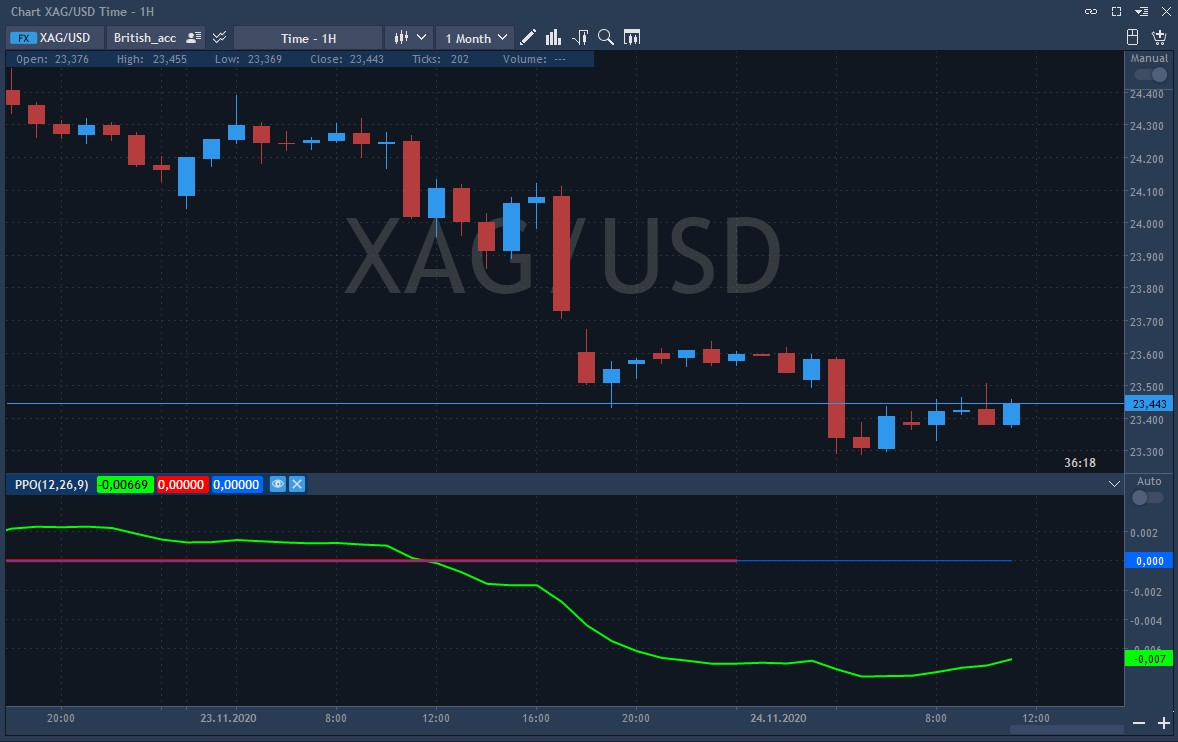
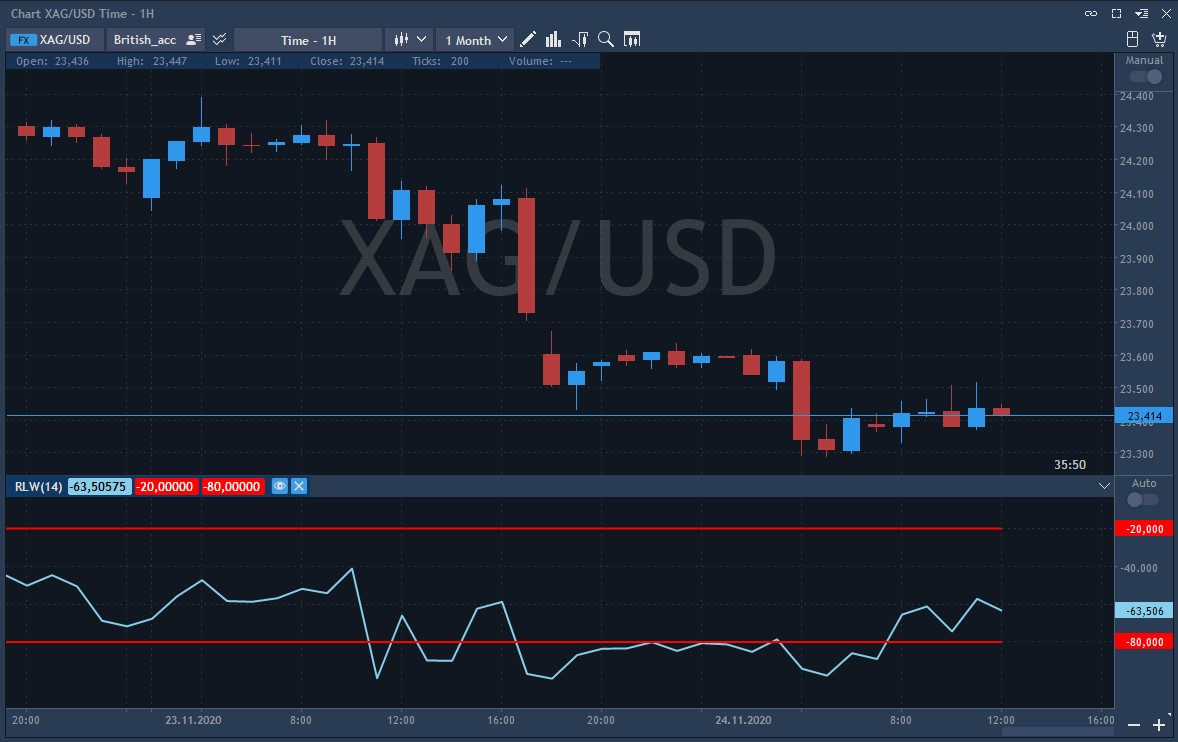
GitBook: [master] 5 pages and 4 assets modified

diff --git a/desktop-application-for-windows/windows/technical-indicators/oscillators/rlw-r-larry-williams.md b/desktop-application-for-windows/windows/technical-indicators/oscillators/rlw-r-larry-williams.md
@@ -1,0 +1,34 @@
+# RLW \(%R Larry Williams\)
+
+Renowned author and commodity trader Larry Williams developed a trading formula called the %R to indicate overbought and oversold levels. In his original work, the method examined ten trading days to determine the trading range. After identifying a ten-day trading range, he figured out where today's close price falls within that range.
+
+The system attempts to measure overbought and oversold market conditions. %R is always in the range of 100 and 0. Trading rules are simple. You sell when %R reaches 10% or lower and buy when it reaches 90% or higher.
+
+These values are reversed from normal thinking, especially if you are using RSI as a trading tool. %R works best in trending markets, either bullish or bearish. Likewise, there is often a discrepancy between %R and the market. It is just another hint of the market's condition.
+
+The number of periods used to calculate %R according to Williams may vary depending on the timeframe you are trading. A rule of thumb is that the indicator window should be half the cycle length \(14 days are often used for the intermediate cycle\).
+
+Overbought and Oversold levels are normally set at -20 and -80.
+
+### Calculation
+
+The indicator is very similar to Stochastic %K, except that Williams %R is plotted using negative values ranging from -20 to -80.
+
+Below is the formula for calculating the %R indicator, which is very similar to the Stochastic oscillator:
+
+%R = \(High\(i-n\) – Close\)/\(High\(i-n\) – Low\(i-n\)\) \* 100,
+
+where:
+
+* Close — today’s closing price;
+* High\(i-n\) — highest high over a number \(n\) of previous periods;
+* Low\(i-n\) — lowest low over a number \(n\) of previous periods.
+
+### Main parameters
+
+WPR period – for selecting the period of Williams Percent Range that compares each closing price with the last trading range, 14 by default.
+
+The indicator itself looks as follows on the chart:
+
+![](../../../../.gitbook/assets/screenshot_1%20%2822%29.jpg)
+

diff --git a/SUMMARY.md b/SUMMARY.md
@@ -70,6 +70,7 @@
         * [PO \(Price oscillator\)](desktop-application-for-windows/windows/technical-indicators/oscillators/po-price-oscillator.md)
         * [PPO \(Percentage price oscillator\)](desktop-application-for-windows/windows/technical-indicators/oscillators/ppo-percentage-price-oscillator.md)
         * [QStick](desktop-application-for-windows/windows/technical-indicators/oscillators/qstick.md)
+        * [RLW \(%R Larry Williams\)](desktop-application-for-windows/windows/technical-indicators/oscillators/rlw-r-larry-williams.md)
     * [Trading panels](desktop-application-for-windows/windows/trading-panels/README.md)
       * [Order entry](desktop-application-for-windows/windows/trading-panels/order-entry.md)
       * [Super DOM](desktop-application-for-windows/windows/trading-panels/super-dom.md)

diff --git a/desktop-application-for-windows/windows/technical-indicators/moving-averages/regression-line.md b/desktop-application-for-windows/windows/technical-indicators/moving-averages/regression-line.md
@@ -35,5 +35,5 @@ sum XX – sum of squared price.
 
 The Regression line indicator is actually tomorrow's price prediction plotted today. If prices are consistently above or below the forecast price, expect them to quickly return to more realistic levels. In other words, the Regression line indicator shows where prices "should" trade on a statistical basis, and any excessive deviation from the Regression line is likely to be short-lived. The indicator itself looks as follows on the chart:
 
-![](../../../../.gitbook/assets/screenshot_1%20%2823%29.jpg)
+![](../../../../.gitbook/assets/screenshot_1%20%2824%29.jpg)
 

diff --git a/desktop-application-for-windows/windows/technical-indicators/oscillators/ppo-percentage-price-oscillator.md b/desktop-application-for-windows/windows/technical-indicators/oscillators/ppo-percentage-price-oscillator.md
@@ -20,5 +20,5 @@ Crossing the center line also generates trading signals. Traders view a move fro
 
 The indicator itself looks as follows on the chart:
 
-![](../../../../.gitbook/assets/screenshot_1%20%2822%29.jpg)
+![](../../../../.gitbook/assets/screenshot_1%20%2823%29.jpg)
 

diff --git a/desktop-application-for-windows/windows/technical-indicators/oscillators/ao-awesome-oscillator.md b/desktop-application-for-windows/windows/technical-indicators/oscillators/ao-awesome-oscillator.md
@@ -21,5 +21,5 @@ The main parameters concern the appearance of the histogram, the user can select
 
 The indicator looks as follows on the chart:
 
-![](../../../../.gitbook/assets/screenshot_1%20%2824%29.jpg)
+![](../../../../.gitbook/assets/screenshot_1%20%2825%29.jpg)
 
